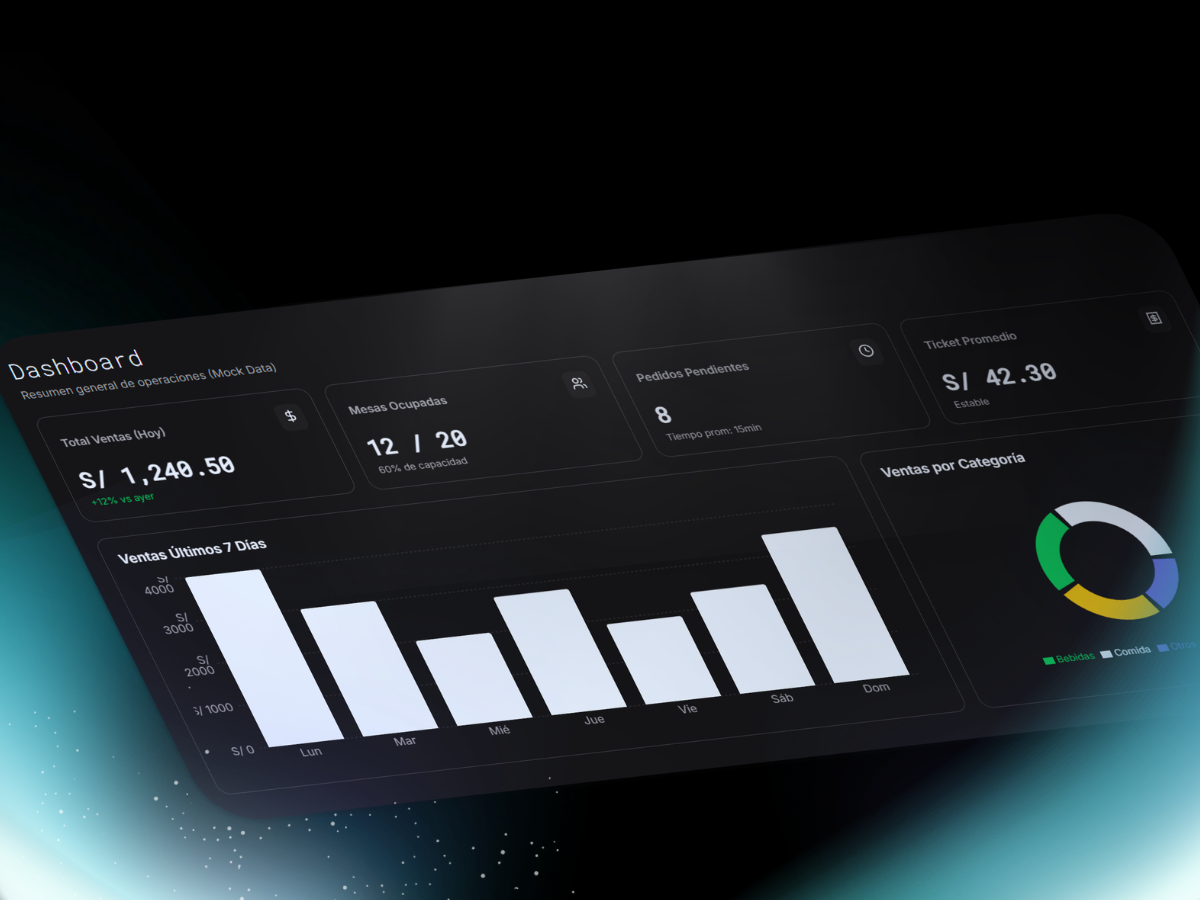
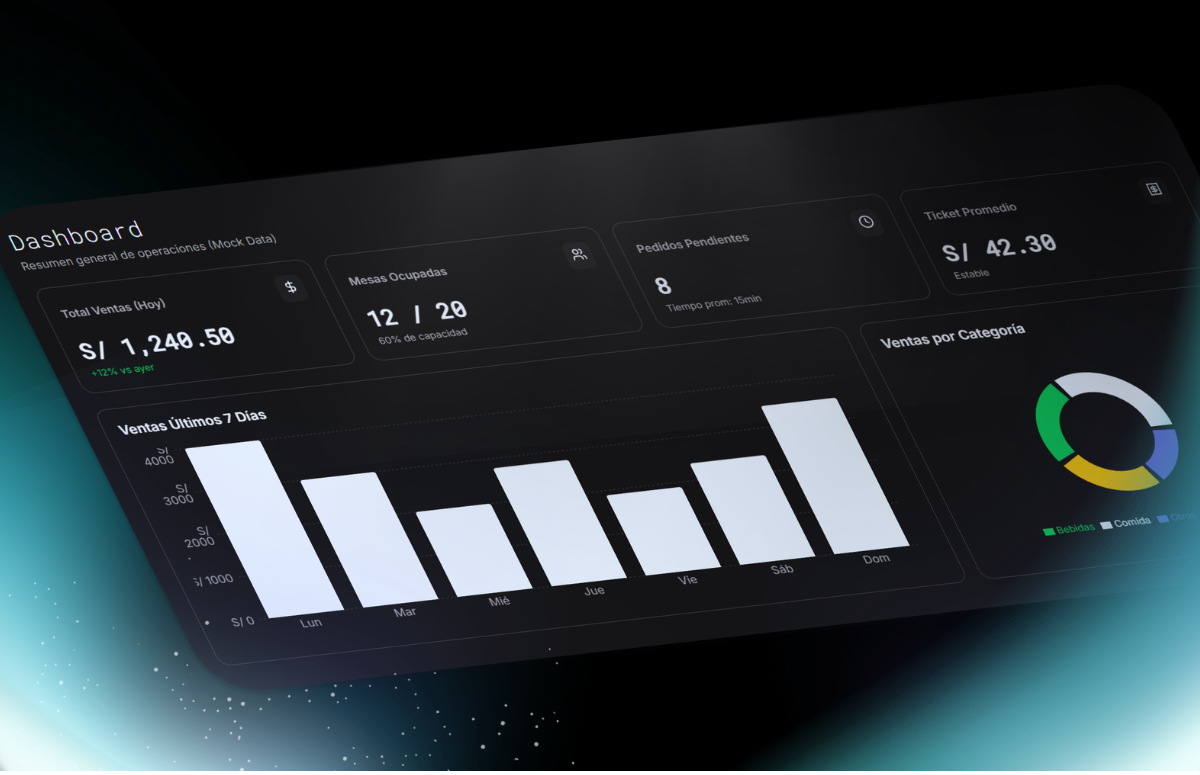
add: Se integró HeroCarousel.jsx, para mostrar carrusel de imagenes en LandingView, se corrigió error de memoria en filtro de fechas.

diff --git a/client/src/components/HeroCarousel.jsx b/client/src/components/HeroCarousel.jsx
@@ -1,0 +1,87 @@
+import React, { useState, useEffect, useCallback } from 'react';
+import { ChevronLeft, ChevronRight } from 'lucide-react';
+
+const IMAGES = [
+  '/uploads/home/img1.png',
+  '/uploads/home/img2.png',
+  '/uploads/home/img3.png',
+  '/uploads/home/img4.png',
+  '/uploads/home/img5.png',
+  '/uploads/home/img6.png',
+];
+
+export default function HeroCarousel() {
+  const [index, setIndex] = useState(0);
+  const total = IMAGES.length;
+
+  const next = useCallback(() => {
+    if (total <= 1) return;
+    setIndex((prev) => (prev + 1) % total);
+  }, [total]);
+
+  const prev = useCallback(() => {
+    if (total <= 1) return;
+    setIndex((prev) => (prev - 1 + total) % total);
+  }, [total]);
+
+  useEffect(() => {
+    if (total <= 1) return;
+    const timer = setInterval(next, 4000);
+    return () => clearInterval(timer);
+  }, [next, total]);
+
+  return (
+    <div className="relative w-full overflow-hidden rounded-2xl" style={{ aspectRatio: '1200 / 775' }}>
+      {/* Track deslizante: todas las imágenes en fila */}
+      <div
+        className="absolute inset-0 flex transition-transform duration-1000 ease-in-out"
+        style={{
+          width: `${total * 100}%`,
+          transform: `translateX(-${index * (100 / total)}%)`,
+        }}
+      >
+        {IMAGES.map((src, i) => (
+          <img
+            key={src}
+            src={src}
+            alt={`Vista previa ${i + 1}`}
+            className="h-full object-cover flex-shrink-0"
+            style={{ width: `${100 / total}%` }}
+          />
+        ))}
+      </div>
+
+      {total > 1 && (
+        <>
+          <button
+            onClick={prev}
+            className="absolute left-4 top-1/2 -translate-y-1/2 z-20 w-10 h-10 rounded-full bg-black/40 hover:bg-black/70 backdrop-blur-sm border border-white/10 flex items-center justify-center text-white transition-all cursor-pointer"
+            aria-label="Anterior"
+          >
+            <ChevronLeft size={20} />
+          </button>
+          <button
+            onClick={next}
+            className="absolute right-4 top-1/2 -translate-y-1/2 z-20 w-10 h-10 rounded-full bg-black/40 hover:bg-black/70 backdrop-blur-sm border border-white/10 flex items-center justify-center text-white transition-all cursor-pointer"
+            aria-label="Siguiente"
+          >
+            <ChevronRight size={20} />
+          </button>
+        </>
+      )}
+
+      {total > 1 && (
+        <div className="absolute bottom-4 left-1/2 -translate-x-1/2 z-20 flex gap-2">
+          {IMAGES.map((_, i) => (
+            <button
+              key={i}
+              onClick={() => setIndex(i)}
+              className={`h-1.5 rounded-full transition-all cursor-pointer ${i === index ? 'w-6 bg-teal-400' : 'w-1.5 bg-white/30 hover:bg-white/50'}`}
+              aria-label={`Ir a imagen ${i + 1}`}
+            />
+          ))}
+        </div>
+      )}
+    </div>
+  );
+}

diff --git a/client/src/components/CashCountTable.jsx b/client/src/components/CashCountTable.jsx
@@ -15,6 +15,9 @@ const CashCountTable = ({ onStatusChange }) => {
     const [filterDate, setFilterDate] = useState('');
     const [currentPage, setCurrentPage] = useState(1);
     const [showCalendar, setShowCalendar] = useState(false);
+    const [displayMonth, setDisplayMonth] = useState(
+        filterDate ? new Date(filterDate + 'T12:00:00') : new Date()
+    );
     const calendarRef = useRef(null);
 
     useEffect(() => {
@@ -436,6 +439,7 @@ const CashCountTable = ({ onStatusChange }) => {
                                     onClick={(e) => {
                                         e.stopPropagation();
                                         setFilterDate('');
+                                        setDisplayMonth(new Date());
                                         setCurrentPage(1);
                                     }}
                                 >
@@ -453,12 +457,16 @@ const CashCountTable = ({ onStatusChange }) => {
                                             const mm = String(date.getMonth() + 1).padStart(2, '0');
                                             const dd = String(date.getDate()).padStart(2, '0');
                                             setFilterDate(`${yyyy}-${mm}-${dd}`);
+                                            setDisplayMonth(date);
                                         } else {
                                             setFilterDate('');
+                                            setDisplayMonth(new Date());
                                         }
                                         setCurrentPage(1);
                                         setShowCalendar(false);
                                     }}
+                                    month={displayMonth}
+                                    onMonthChange={setDisplayMonth}
                                 />
                             </div>
                         )}

diff --git a/client/src/pages/InventoryView.jsx b/client/src/pages/InventoryView.jsx
@@ -33,6 +33,9 @@ const InventoryView = () => {
     const [kardexDateFilter, setKardexDateFilter] = useState('');
     const [kardexCurrentPage, setKardexCurrentPage] = useState(1);
     const [showKardexCalendar, setShowKardexCalendar] = useState(false);
+    const [kardexDisplayMonth, setKardexDisplayMonth] = useState(
+        kardexDateFilter ? new Date(kardexDateFilter + 'T12:00:00') : new Date()
+    );
     const kardexCalendarRef = useRef(null);
 
     useEffect(() => {
@@ -657,6 +660,7 @@ const InventoryView = () => {
         };
         const handleClearDateFilter = () => {
             setKardexDateFilter('');
+            setKardexDisplayMonth(new Date());
             setKardexCurrentPage(1);
         };
 
@@ -723,12 +727,16 @@ const InventoryView = () => {
                                                 const mm = String(date.getMonth() + 1).padStart(2, '0');
                                                 const dd = String(date.getDate()).padStart(2, '0');
                                                 setKardexDateFilter(`${yyyy}-${mm}-${dd}`);
+                                                setKardexDisplayMonth(date);
                                             } else {
                                                 setKardexDateFilter('');
+                                                setKardexDisplayMonth(new Date());
                                             }
                                             setKardexCurrentPage(1);
                                             setShowKardexCalendar(false);
                                         }}
+                                        month={kardexDisplayMonth}
+                                        onMonthChange={setKardexDisplayMonth}
                                     />
                                 </div>
                             )}

diff --git a/client/src/pages/LandingView.jsx b/client/src/pages/LandingView.jsx
@@ -6,6 +6,7 @@ import {
   TrendingUp, Users, Printer, Store
 } from 'lucide-react';
 import RevealOnScroll from '../components/RevealOnScroll';
+import HeroCarousel from '../components/HeroCarousel';
 
 // Componente reusable de Botón Premium
 const SaasButton = ({ variant = "default", className = "", children, ...props }) => {
@@ -148,15 +149,11 @@ export default function LandingView() {
           </div>
         </RevealOnScroll>
 
-        <RevealOnScroll variant="scale" delay={700} duration={1200}>
+        <RevealOnScroll variant="scale" delay={700} duration={1200} className="w-full flex justify-center">
           <div className="w-full max-w-5xl relative group">
             <div className="absolute left-1/2 w-[90%] h-[70%] pointer-events-none z-0 opacity-15 blur-[140px] top-[-10%] -translate-x-1/2 bg-teal-500 rounded-full" />
             <div className="relative z-10 border border-gray-800/60 rounded-2xl overflow-hidden shadow-[0_30px_70px_rgba(0,0,0,0.8)] bg-gray-950/60 transition-transform duration-700 hover:scale-[1.01]">
-              <img
-                src="/uploads/home/img1.png"
-                alt="Dashboard Preview"
-                className="w-full h-auto opacity-90 block"
-              />
+              <HeroCarousel />
             </div>
           </div>
         </RevealOnScroll>

diff --git a/client/src/pages/StaffStatsView.jsx b/client/src/pages/StaffStatsView.jsx
@@ -19,6 +19,9 @@ const StaffStatsView = () => {
     const [date, setDate] = useState(new Date().toISOString().split('T')[0]);
     const [loading, setLoading] = useState(false);
     const [showCalendar, setShowCalendar] = useState(false);
+    const [displayMonth, setDisplayMonth] = useState(
+        date ? new Date(date + 'T12:00:00') : new Date()
+    );
     const calendarRef = useRef(null);
 
     useEffect(() => {
@@ -155,9 +158,12 @@ const StaffStatsView = () => {
                                             const mm = String(selectedDate.getMonth() + 1).padStart(2, '0');
                                             const dd = String(selectedDate.getDate()).padStart(2, '0');
                                             setDate(`${yyyy}-${mm}-${dd}`);
+                                            setDisplayMonth(selectedDate);
                                         }
                                         setShowCalendar(false);
                                     }}
+                                    month={displayMonth}
+                                    onMonthChange={setDisplayMonth}
                                 />
                             </div>
                         )}

diff --git a/client/vite.config.js b/client/vite.config.js
@@ -12,6 +12,10 @@ export default defineConfig({
       '/api': {
         target: 'http://localhost:3000',
         changeOrigin: true,
+      },
+      '/uploads': {
+        target: 'http://localhost:3000',
+        changeOrigin: true,
       }
     }
   }
